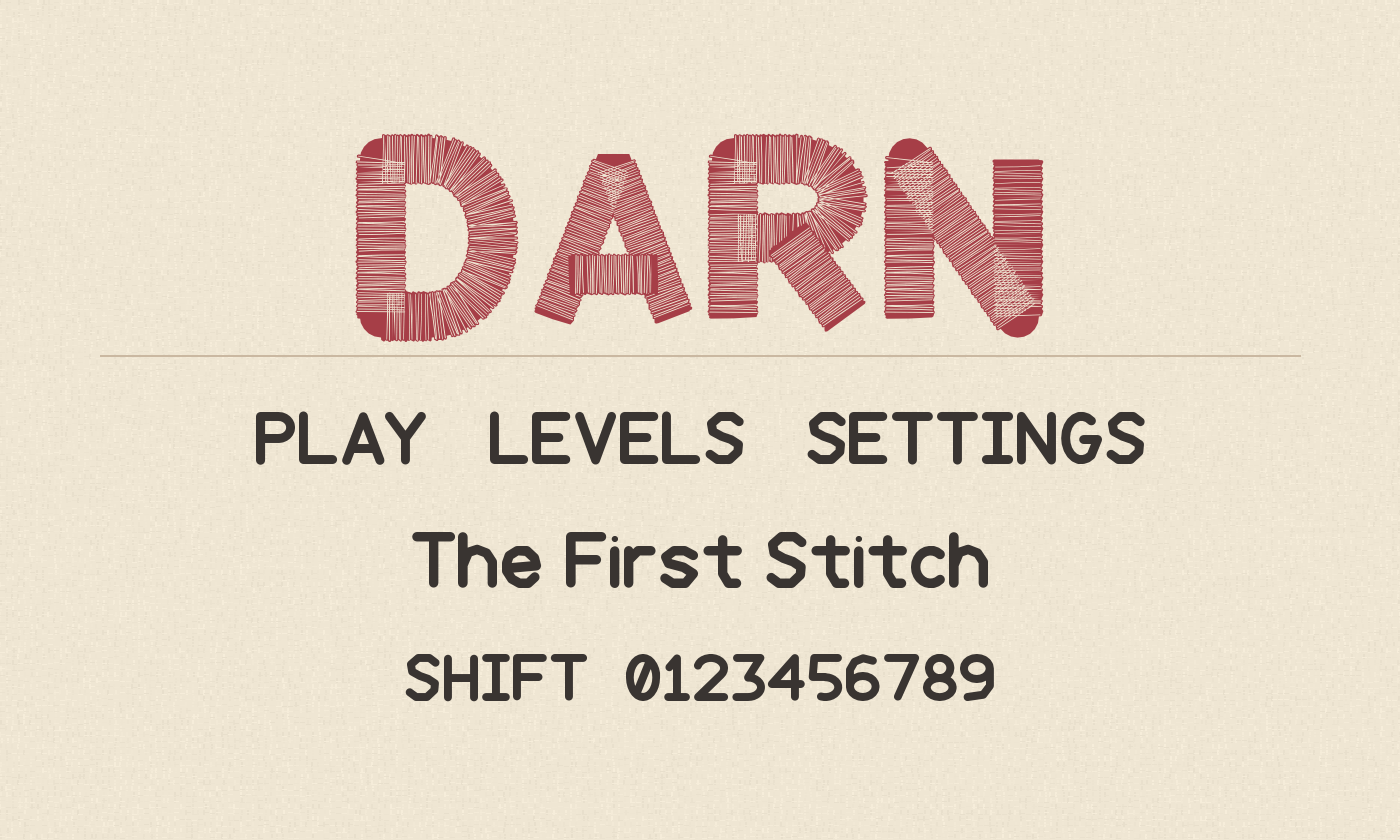
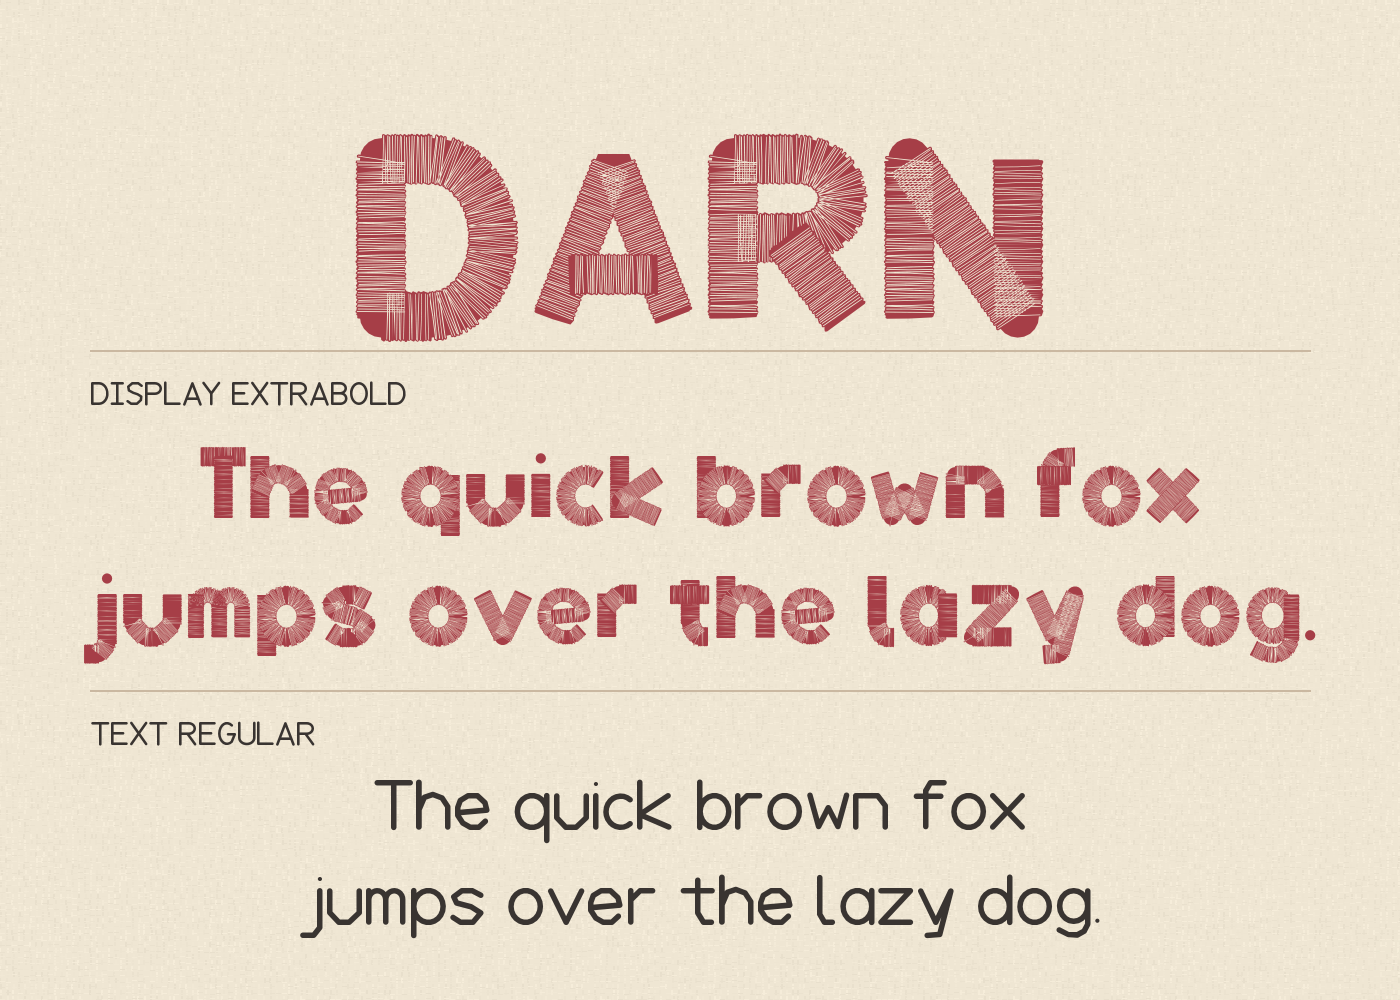
Show a pangram in Darn specimens

diff --git a/tools/proof.py b/tools/proof.py
@@ -65,15 +65,19 @@ def wordmark():
 
 
 def preview():
-    canvas = Image.new("RGB", (1400, 840), LINEN)
+    canvas = Image.new("RGB", (1400, 1000), LINEN)
     cloth(canvas, LINEN)
     draw = ImageDraw.Draw(canvas)
     title = NAME.upper()
     centered(draw, 65, title, fitted_font("Stitched", title, 225, 1230), RED, canvas.width)
-    draw.line((100, 355, 1300, 355), fill=(202, 184, 161), width=2)
-    centered(draw, 390, "PLAY   LEVELS   SETTINGS", font("StitchedUI", 62), INK, canvas.width)
-    centered(draw, 510, "The First Stitch", font("StitchedUI", 65), INK, canvas.width)
-    centered(draw, 635, "SHIFT  0123456789", font("StitchedUI", 55), INK, canvas.width)
+    draw.line((90, 350, 1310, 350), fill=(202, 184, 161), width=2)
+    draw.text((90, 370), "DISPLAY EXTRABOLD", font=font("StitchedUI", 30, "Regular"), fill=INK)
+    for y, line in zip((420, 540), ("The quick brown fox", "jumps over the lazy dog.")):
+        centered(draw, y, line, fitted_font("Stitched", line, 86, 1260), RED, canvas.width)
+    draw.line((90, 690, 1310, 690), fill=(202, 184, 161), width=2)
+    draw.text((90, 710), "TEXT REGULAR", font=font("StitchedUI", 30, "Regular"), fill=INK)
+    for y, line in zip((755, 850), ("The quick brown fox", "jumps over the lazy dog.")):
+        centered(draw, y, line, font("StitchedUI", 64, "Regular"), INK, canvas.width)
     canvas.save(OUTPUT / "preview.png", optimize=True)
 
 
